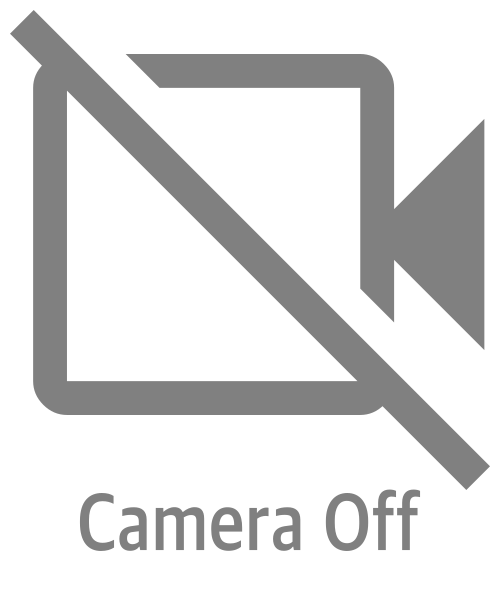
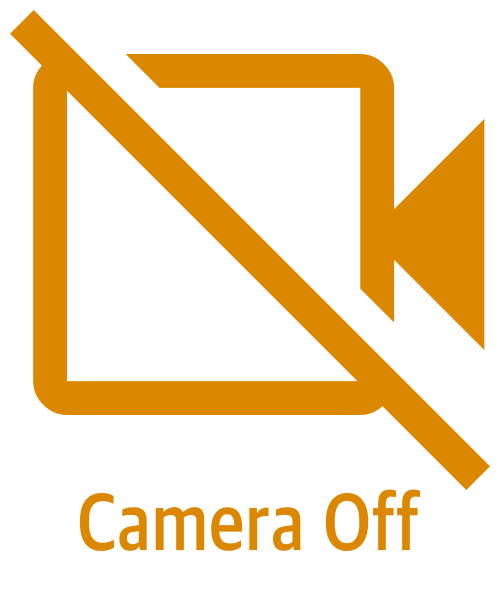
Changed displaying results according to accuracy more than 70%. Finished redesigning process.

diff --git a/app.py b/app.py
@@ -93,7 +93,8 @@ class VideoChat(QWidget):
         self.title.setAlignment(Qt.AlignHCenter)
         self.title.setStyleSheet("""font-size: 30px;
 text-align: center;
-color: maroon;
+font-weight: 700;
+color: rgb(219, 135, 0);
 background-color: none;""")
 
         
@@ -105,9 +106,9 @@ background-color: none;""")
         scaled = self.camera_pixmap.scaled(200, 300, Qt.KeepAspectRatio, Qt.SmoothTransformation)
         self.camera_image.setPixmap(scaled)
         self.camera_image.setAlignment(Qt.AlignCenter)
-        self.camera_image.setStyleSheet("""border: 5px solid rgb(255, 171, 37);
+        self.camera_image.setStyleSheet("""border: 5px solid rgb(219, 135, 0);
 border-radius: 13px;
-background-color: rgba(255, 168, 38, 0.15);""")
+background-color: rgba(205, 203, 208, 0.15);""")
 
         
         self.chat_layout = QVBoxLayout()
@@ -138,6 +139,32 @@ background-color: rgba(205, 203, 208, 0.15);
 
         # Combobox to chose the role
         self.roles_combobox = QComboBox()
+        self.roles_combobox.setStyleSheet("""QComboBox {
+  background: rgb(102, 102, 102);
+  border: 3px solid rgb(219, 135, 0);
+  border-radius: 13px;
+  padding: 2px 18px 2px 3px;
+  color: #FFFFFF;
+}
+QComboBox:editable {
+  background: rgb(219, 135, 0);
+}
+QComboBox:!editable,
+QComboBox::drop-down:editable,
+QComboBox:!editable:on,
+QComboBox::drop-down:editable:on {
+  background: rgb(219, 135, 0);
+}
+QComboBox::drop-down {
+  subcontrol-origin: padding;
+  subcontrol-position: top right;
+  border-left: none;
+}
+
+QComboBox QAbstractItemView {
+  background: none;
+}""")
+        self.roles_combobox.setFixedHeight(50)
         self.json_read_thread = JsonReader()
         self.json_read_thread.finished.connect(self.apply_json)
         self.json_read_thread.run()
@@ -146,7 +173,12 @@ background-color: rgba(205, 203, 208, 0.15);
         # Checkbox to turn on/off the bound boxes
         self.boxes_check = QCheckBox(text="Show bound boxes")
         self.boxes_check.setChecked(False)
-        self.boxes_check.setStyleSheet('background: transparent;')
+        self.boxes_check.setFixedHeight(50)
+        
+        self.boxes_check.setStyleSheet("""background: transparent;
+border: 2px solid rgb(219, 135, 0);
+border-radius: 13px;
+color: rgb(219, 135, 0)""")
         self.boxes_check.clicked.connect(self.show_boxes)
         
 
@@ -155,11 +187,11 @@ background-color: rgba(205, 203, 208, 0.15);
         self.say_button.setIcon(self.say_button_icon)
         self.say_button.setIconSize(QSize(50, 50))
         self.say_button.setStyleSheet("""QPushButton {
-border: 3px solid rgb(255, 171, 37);
+border: 3px solid rgb(219, 135, 0);
 border-radius: 13px;
-color: rgb(255, 171, 37);
+color: rgb(102, 102, 102);
 font-size: 20px;
-background-color: rgba(205, 203, 208, 0.15);
+background-color: rgb(219, 135, 0);
 }
 
 QPushButton:hover {
@@ -200,11 +232,11 @@ blur(20px);
         self.exit_button.setIconSize(QSize(50, 50))
         self.exit_button.clicked.connect(self.exit_app)
         self.exit_button.setStyleSheet("""QPushButton {
-border: 3px solid rgb(255, 171, 37);
+border: 3px solid rgb(219, 135, 0);
 border-radius: 13px;
-color: rgb(255, 171, 37);
+color: rgb(102, 102, 102);
 font-size: 20px;
-background-color: rgba(205, 203, 208, 0.15);
+background-color: rgb(219, 135, 0);
 }
 
 QPushButton:hover {

diff --git a/object_recognition.py b/object_recognition.py
@@ -14,7 +14,7 @@ def prepare_image(frame, classes, model, draw_results=True):
 
     for detection in output[0, 0, :, :]:
         confidence = detection[2]
-        if confidence > 0.5:
+        if confidence > 0.7:
             
             class_id = int(detection[1])
             class_name = classes[class_id]
